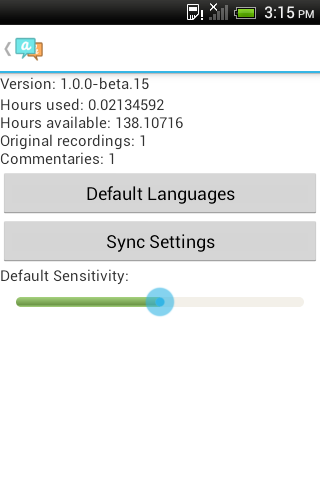
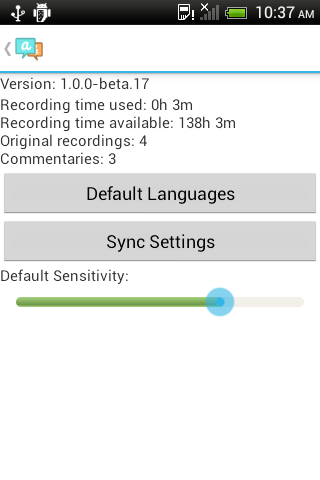
Update HotTo to match Beta17
Updated to include new Audio Import feature

diff --git a/aikuma/howto.md b/aikuma/howto.md
@@ -7,7 +7,7 @@ css: aikuma
 
 
 
-This guide outlines how to use Aikuma (version 1.0.0-beta.15). The most current version can be
+This guide outlines how to use Aikuma (version 1.0.0-beta.17). The most current version can be
 [downloaded](https://play.google.com/store/apps/details?id=org.lp20.aikuma&amphl=en) from the Google Play store.
 
 
@@ -30,6 +30,8 @@ There is more detail on each of these features in the sections below:
 * The gear will take you to the [settings](#Settings) screen. Here you can set the default languages and synching mode.
 
 The main space on this screen is filled with the list of recordings that have been made by users of the application. As you can see from the list in the image above, this includes an image of the speakers, and the date and duration of the recording, as well as a title. You can select a recording to listen to it or add commentary. This is explained in the [playback](#Playback) section below. 
+
+Below the list of recordings is an "import audio file" button. This allows you to [load existing recordings](#Import) into Aikuma for people to listen to and provide commentaries. This is optional, and discussed at the bottom of this page. 
 
 
 <a name="Record"></a>
@@ -78,7 +80,7 @@ Pressing the large green tick at the bottom of the screen will save the recordin
 
 Your recording will now appear in the list on the main screen, with the date, duration, description and the image of the people in the recording.
 
-To go back to the [main screen](#Main) at any time press the Aikuma logo in the top left-hand corner of the screen.
+To go back to the [main screen](#Main) at any time press the Aikuma logo in the top left-hand corner of the screen. Doing this at some points in the process will mean that you lose your recording. 
 
 
 <a name="Playback"></a>
@@ -255,6 +257,17 @@ To go back to the [main screen](#Main) at any time press the Aikuma logo in the 
 <a name="Sensitivity"></a>
 ###Default sensitivity###
 This slider allows you to set the default sensitivity that will be used in the [voice-activated commentary](#Voice). You will still be able to change the sensitivity for each recording, but this will change the default point on the slider. 
+
+<a name="Import"></a>
+Importing existing recordings
+---------
+At the bottom of the home screen is an "import audio file" button that allows you to load any existing .WAV recordings onto the handset for people to listen to and provide commentaries for. Place all of the files you want to upload in a folder that is easy for you to find on the phone. In Aikuma press the "import audio file" button, this will bring up the file directory.  Navigate to the folder you have put the files in, and choose the file you want to upload.
+
+![Locate File](/images/HowTo/LocateFile.png)
+<p class="clear"/>
+
+When you've imported the audio file it will take you to the page where you can [save](#Save) the recording by adding the relevant information. It will then appear in your list of recordings.
+
 
 Updating Aikuma 
 ---------------
